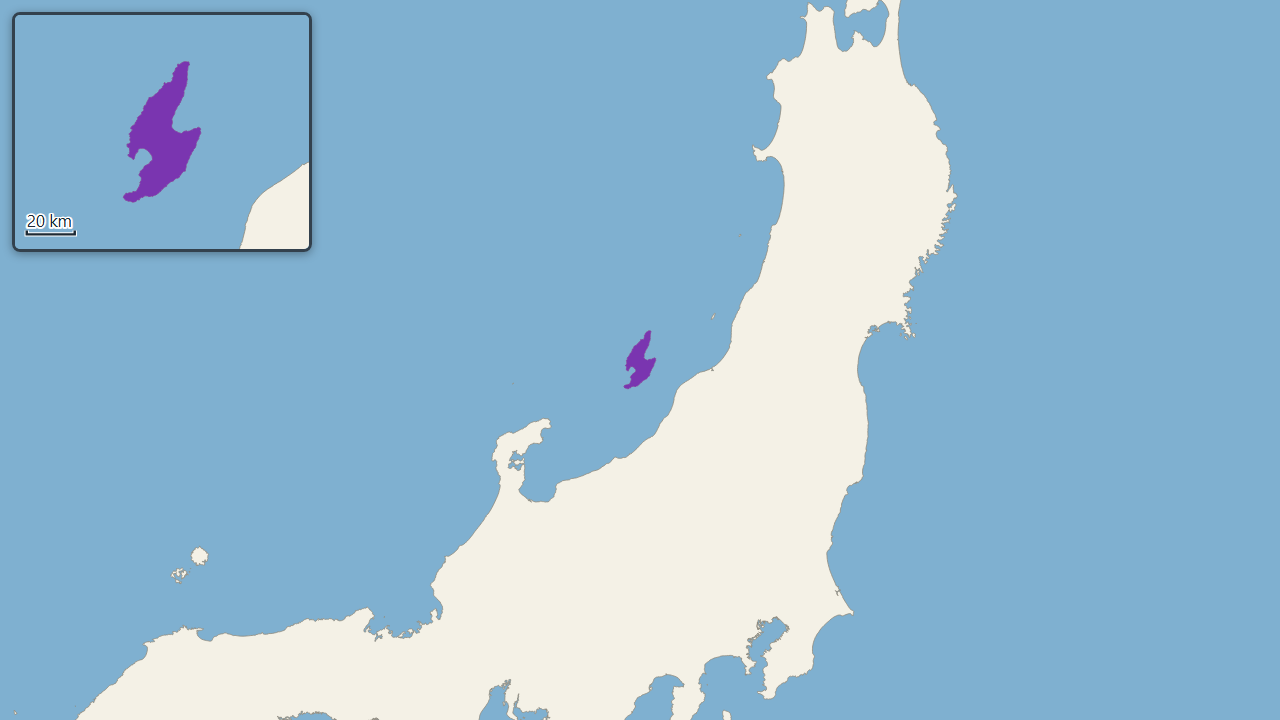
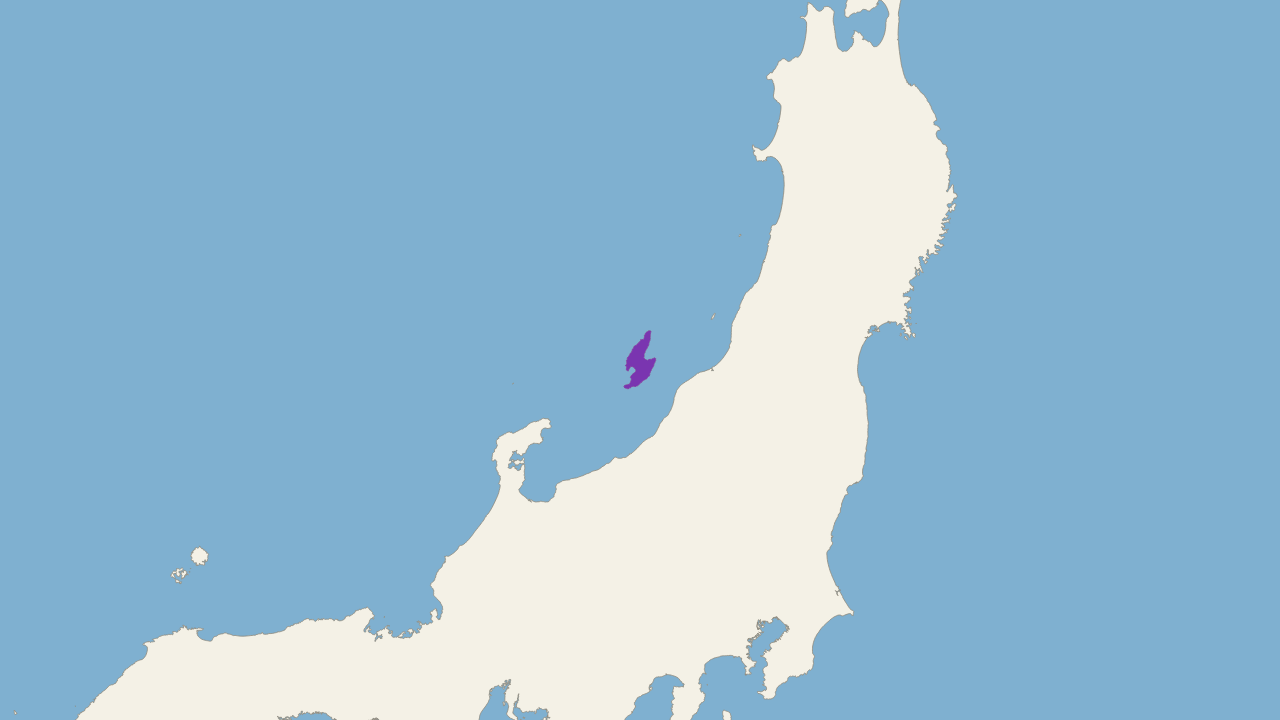
fix: give zoom boxes only to small islands
Islands under 400 km² keep a zoom box; larger islands and all prefectures have none. Add card examples to the AnkiWeb page, including a tiny island with a dot and zoom box.

Changed region(s): [[0.0, 0.0, 0.25, 0.3667], [0.0938, 0.0917, 0.1562, 0.275]]

diff --git a/scripts/render-all.js b/scripts/render-all.js
@@ -3,7 +3,7 @@
 // scale. Prefecture maps show the prefecture in red among the other prefectures; island maps show the island in purple
 // with no prefecture borders. Other countries are grey. The card script scales and positions the image so the target
 // fits any window, using the box recorded in boxes.json.
-// Small targets also get a zoom box (build/media/jp-zoom-<id>.svg) with a scale bar, which the card pins to its
+// Small islands also get a zoom box (build/media/jp-zoom-<id>.svg) with a scale bar, which the card pins to its
 // top-left. As in the World Map deck, a very small target gets a solid dot on each part too small to see.
 // Usage: node scripts/render-all.js [13 sado ...]
 import fs from 'node:fs';
@@ -21,7 +21,7 @@ const WIDE = {
   miyako: 3000, ishigaki: 3200, iriomote: 3200, yonaguni: 3300,
   hachijo: 1500, chichijima: 2900, ioto: 3300,
 };
-const ZOOM_MAX_KM2 = { prefecture: 2500, island: 1500 }; // smaller targets get a zoom box
+const ZOOM_MAX_KM2 = 400; // smaller islands get a zoom box; prefectures never do
 const ZOOM_MAX_FRAME_KM = 241; // the World Map deck's 150 miles: a wider zoom box would hardly enlarge scattered pieces
 const COLORS = { ocean: '#7fb0d0', land: '#f4f1e6', border: '#8f897a', foreign: '#d8d5c9', prefecture: '#d9381e', island: '#7a35b0' };
 // Minimum-size dot, in the World Map deck's on-screen sizes (px on a 1280 px wide desktop card). A target covering less
@@ -168,7 +168,7 @@ for (const t of todo) {
   const svg = draw(t.kind, t.shape, proj, SIZE, SIZE, { ui, labels: true, dotR });
   const stem = t.id.slice(3);
   fs.writeFileSync(`build/media/jp-map-${stem}.svg`, svg);
-  const zoom = area < ZOOM_MAX_KM2[t.kind] ? drawZoom(t.kind, t.shape, geom) : null;
+  const zoom = t.kind === 'island' && area < ZOOM_MAX_KM2 ? drawZoom(t.kind, t.shape, geom) : null;
   if (zoom) fs.writeFileSync(`build/media/jp-zoom-${stem}.svg`, zoom);
   else fs.rmSync(`build/media/jp-zoom-${stem}.svg`, { force: true });
   console.log(`${t.key.padEnd(12)} ${t.name.padEnd(20)} ${String(canvas).padStart(5)} km  ${String(Math.round(svg.length / 1024)).padStart(4)} KB${zoom ? '  + zoom' : ''}${small ? (speck ? '  + big dot' : '  + dot') : ''}`);

diff --git a/scripts/build-examples.js b/scripts/build-examples.js
@@ -27,6 +27,8 @@ const DOC_SHOTS = [
   ['island-back', 'locate', 'back', 'sado', 1280, 720],
   ['phone-island-front', 'locate', 'front', 'sado', 390, 844, true],
   ['phone-island-back', 'locate', 'back', 'sado', 390, 844, true],
+  ['zoom-front', 'locate', 'front', 'naoshima', 1280, 720],
+  ['phone-zoom-front', 'locate', 'front', 'naoshima', 390, 844, true],
 ];
 const testIsos = process.argv.slice(2);
 const SHOTS = testIsos.length

diff --git a/docs/ankiweb.md b/docs/ankiweb.md
@@ -14,7 +14,29 @@ Find the highlighted place on a north-up map, then flip for the answer: red is a
 
 The back shows the name and facts in English. Prefectures include their flag, capital, borders, population, GDP, area, density and governor. Islands include their group or sea, prefectures, municipalities, population, area and density.
 
-Small places get a zoomed-in box with a scale bar.
+### Prefectures
+
+<img src="https://raw.githubusercontent.com/jackindisguise/studying-the-japan-map/main/docs/images/locate-front.png" alt="Prefecture, front" width="640">
+<img src="https://raw.githubusercontent.com/jackindisguise/studying-the-japan-map/main/docs/images/locate-back.png" alt="Prefecture, back" width="640">
+
+### Islands
+
+<img src="https://raw.githubusercontent.com/jackindisguise/studying-the-japan-map/main/docs/images/island-front.png" alt="Island, front" width="640">
+<img src="https://raw.githubusercontent.com/jackindisguise/studying-the-japan-map/main/docs/images/island-back.png" alt="Island, back" width="640">
+
+### Tiny islands
+Small islands get a zoomed-in box with a scale bar, and the hardest to see also get a dot on the main map.
+
+<img src="https://raw.githubusercontent.com/jackindisguise/studying-the-japan-map/main/docs/images/zoom-front.png" alt="Tiny island, front" width="640">
+
+### On a phone
+The cards fill the screen on a phone too: the map on top, and the details below it on the back.
+
+<img src="https://raw.githubusercontent.com/jackindisguise/studying-the-japan-map/main/docs/images/phone-locate-front.png" alt="Prefecture on a phone, front" width="240">
+<img src="https://raw.githubusercontent.com/jackindisguise/studying-the-japan-map/main/docs/images/phone-locate-back.png" alt="Prefecture on a phone, back" width="240">
+<img src="https://raw.githubusercontent.com/jackindisguise/studying-the-japan-map/main/docs/images/phone-island-front.png" alt="Island on a phone, front" width="240">
+<img src="https://raw.githubusercontent.com/jackindisguise/studying-the-japan-map/main/docs/images/phone-island-back.png" alt="Island on a phone, back" width="240">
+<img src="https://raw.githubusercontent.com/jackindisguise/studying-the-japan-map/main/docs/images/phone-zoom-front.png" alt="Tiny island on a phone, front" width="240">
 
 ---
 

diff --git a/README.md b/README.md
@@ -16,7 +16,7 @@ This project holds everything needed to generate the deck's data, maps and packa
 - **Front:** the map only. The colour says which is being asked: red for a prefecture, purple for an island. Island maps have no prefecture borders.
 - **Back:** everything is in English, in the usual spellings without macrons. Under the name, prefectures show their flag, region, capital, largest city (when it is not the capital), bordering prefectures, population, GDP, GDP per capita, area, density and governor. Islands show their island group or sea, prefectures, municipalities, population, area and density.
 - **Maps:** one SVG per place, a north-up Mercator view. Far southern islands use wider views.
-- **Zoom boxes:** prefectures under 2,500 km² and islands under 1,500 km² also get a zoomed-in box with a scale bar. As in the World Map deck, places whose pieces are spread too far for the box to enlarge them (here Tokyo and Okinawa prefectures) get none.
+- **Zoom boxes:** islands under 400 km² also get a zoomed-in box with a scale bar. Prefectures have none.
 - **Minimum dot size:** as in the World Map deck, when a place covers very little of the map, each of its parts that would be hard to see gets a solid dot in its colour, larger for the tiniest. This covers small islands and the scattered islands of Okinawa prefecture.
 
 ---
@@ -34,6 +34,15 @@ Screenshots rendered from the card templates with `node scripts/build-examples.j
 <table>
 <tr><td align="center">Phone front</td><td align="center">Phone back</td></tr>
 <tr><td><img src="docs/images/phone-locate-front.png" alt="Prefecture on a phone, front" width="200"></td><td><img src="docs/images/phone-locate-back.png" alt="Prefecture on a phone, back" width="200"></td></tr>
+</table>
+
+### Tiny islands
+
+Very small islands (here Naoshima) get a dot on the main map and a zoomed-in box in the top-left corner, with a scale bar.
+
+<table>
+<tr><td align="center">Desktop</td><td align="center">Phone</td></tr>
+<tr><td><img src="docs/images/zoom-front.png" alt="Naoshima with a dot and a zoom box" width="480"></td><td><img src="docs/images/phone-zoom-front.png" alt="Naoshima on a phone" width="200"></td></tr>
 </table>
 
 ---
